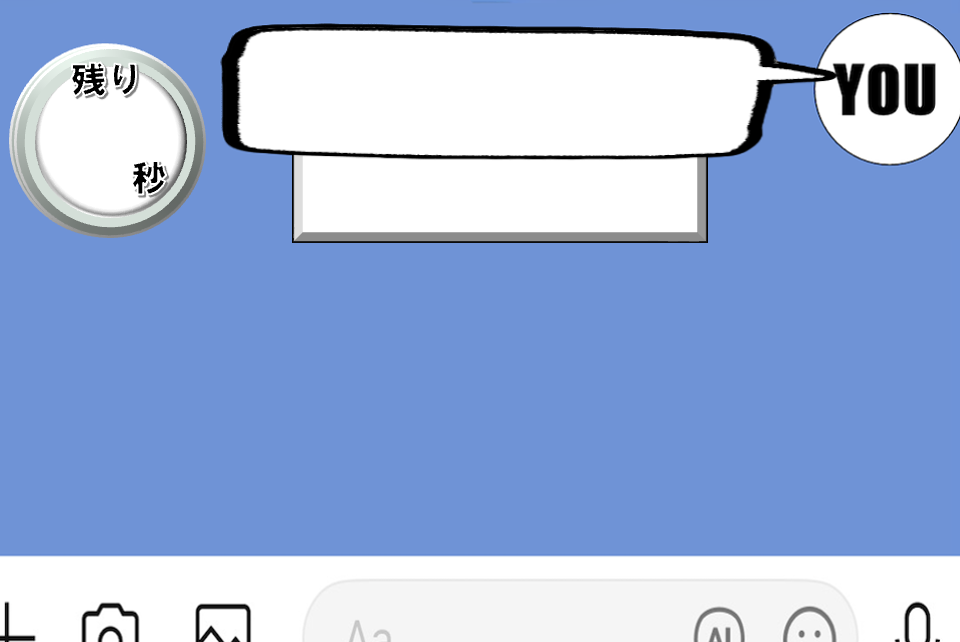
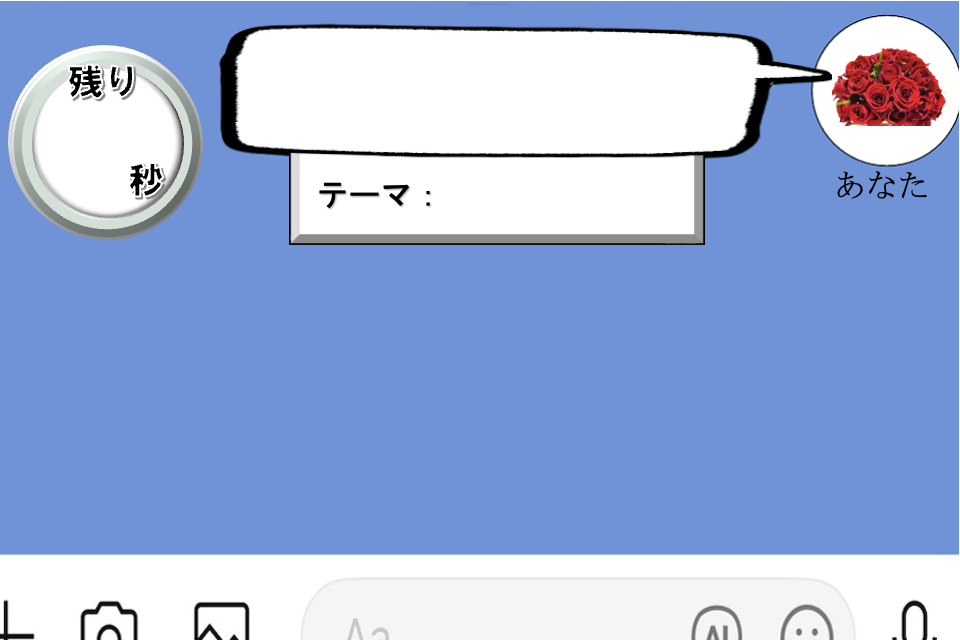
“Judge文字大きくした”

diff --git a/views/GameScene.java b/views/GameScene.java
@@ -33,12 +33,12 @@ public class GameScene extends JPanel {
         judge = new ArrayList<CardView>();//判定リスト
 
         judgeArea = new JPanel();//判定枠の作成
-        judgeArea.setBounds(20, 285, 780, 100);//配置はここの座標を変更
+        judgeArea.setBounds(20, 270, 795, 80);//配置はここの座標を変更
         judgeArea.setBackground(Color.LIGHT_GRAY);
         this.add(judgeArea);
 
         initArea = new JPanel();//カードが最初に置かれているパネルの作成
-        initArea.setBounds(20, 420, 920, 190);//配置はここの座標を変更
+        initArea.setBounds(50, 380, 880, 270);//配置はここの座標を変更
         initArea.setBackground(Color.DARK_GRAY);
         this.add(initArea);
 
@@ -60,7 +60,7 @@ public class GameScene extends JPanel {
 
         submitButton = new JButton(" ▶提出");//提出ボタンの作成
         submitButton.setActionCommand("Submit");
-        submitButton.setBounds(780, 285, 160, 100);//配置はここの座標を変更
+        submitButton.setBounds(795, 270, 160, 80);//配置はここの座標を変更
         submitButton.setBackground(Color.decode("#2F6EBA"));// 背景色を黄色に設定
         submitButton.setForeground(Color.WHITE);// 文字の色を白色に設定
         submitButton.setOpaque(true); // ボタンを不透明にして背景色を表示させる
@@ -72,8 +72,6 @@ public class GameScene extends JPanel {
         showtimer.setBounds(75,110, 90, 75);
         showtimer.setFont(new Font("Arial", Font.BOLD, 60));
         this.add(showtimer);
-        
-        //timer表示用の関数作ってくれるとすｇｇｇｇっごく助かる。
         
 
         setSize(960, 640);//サイズ
@@ -116,15 +114,15 @@ public class GameScene extends JPanel {
     }
 
     public void GenerateCards(ArrayList<String> a, GameController controller){//文字列のリストからカードリストを作成、表示する関数
-        for(int i=0; i < 12; i++){
-            CardView c = new CardView(a.get(i), 40+147*(i%6), 435+90*(i/6));//カードの配置はここの座標を変更
+        for(int i=0; i < 15; i++){
+            CardView c = new CardView(a.get(i), 75+172*(i%5), 395+85*(i/5));//カードの配置はここの座標を変更
             c.addMouseListener(controller);//GameControllerで用意したListenerをここで適用
             c.addMouseMotionListener(controller);
             cards.add(c);//リストに追加
             this.add(c);//パネルに追加
             this.setComponentZOrder(c, 0);//カードを最前面に追加
         }
-        this.repaint();//一応再描画。多分いらん
+        this.repaint();
     }
 
     public Rectangle getJudgeAreaBounds(){//判定枠を返す。Controllerでの判定用

diff --git a/views/JudgeScene.java b/views/JudgeScene.java
@@ -15,14 +15,16 @@ public class JudgeScene extends JPanel {
         ImageIcon icon = new ImageIcon("res/JudgeScene/judge.png");
         this.backgroundImage = icon.getImage();//背景画像追加
 
-        scoreLabel = new JLabel("30");//作った文章表示の作成
-        scoreLabel.setBounds(380, 120, 210, 160);
-        scoreLabel.setFont(new Font("Serif", Font.BOLD, 75));
+        scoreLabel = new JLabel();//作った文章表示の作成
+        scoreLabel.setBounds(380, 130, 210, 160);
+        scoreLabel.setFont(new Font("Serif", Font.BOLD, 160));
+        scoreLabel.setForeground(Color.decode("#FF7B28"));
         scoreLabel.setHorizontalAlignment(JLabel.CENTER);
         this.add(scoreLabel);
 
-        commentLabel = new JLabel("採点中");
+        commentLabel = new JLabel("判定中");
         commentLabel.setBounds(230, 420, 510, 110);
+        commentLabel.setFont(new Font(Font.MONOSPACED, Font.BOLD, 20));
         commentLabel.setHorizontalAlignment(JLabel.CENTER);
         this.add(commentLabel);
 

diff --git a/controllers/GameController.java b/controllers/GameController.java
@@ -74,7 +74,7 @@ public class GameController extends MouseAdapter implements ActionListener{
         Rectangle judgeRect = view.getJudgeAreaBounds();
 
         if(cardRect.intersects(judgeRect)){ //判定枠と重なっていた場合
-            card.lastp.y = 300; //y座標固定
+            card.lastp.y = 275; //y座標固定
             card.lastp.x = card.getX(); card.info.lastp.x = card.lastp.x; //x座標をReleased時の値に更新
             card.info.lastp.y = card.lastp.y;
             view.addCardtoJudge(card);//view側でArrayListに追加

diff --git a/models/GameModel.java b/models/GameModel.java
@@ -20,8 +20,8 @@ import lib.CardInfo;
 public class GameModel {
     public static final int CARD_WIDTH = 80;
     public static final int DEFAULT_CARD_COUNT = 6;
-    public static final int RANDOM_CARD_COUNT = 6;
-    public static final int TOTAL_CARD_COUNT = 12;
+    public static final int RANDOM_CARD_COUNT = 9;
+    public static final int TOTAL_CARD_COUNT = 15;
 
     private static final List<String> THEME_KEYS =
         Collections.unmodifiableList(Arrays.asList("oracle", "propose", "begging"));

diff --git a/views/CardView.java b/views/CardView.java
@@ -17,7 +17,7 @@ import lib.CardInfo;
             setOpaque(true);
             setBackground(Color.white);
             setHorizontalAlignment(CENTER);
-            setBounds(x, y, 135, 70);
+            setBounds(x, y, 135, 65);
             setBorder(BorderFactory.createLineBorder(Color.BLACK));
         }
     }
